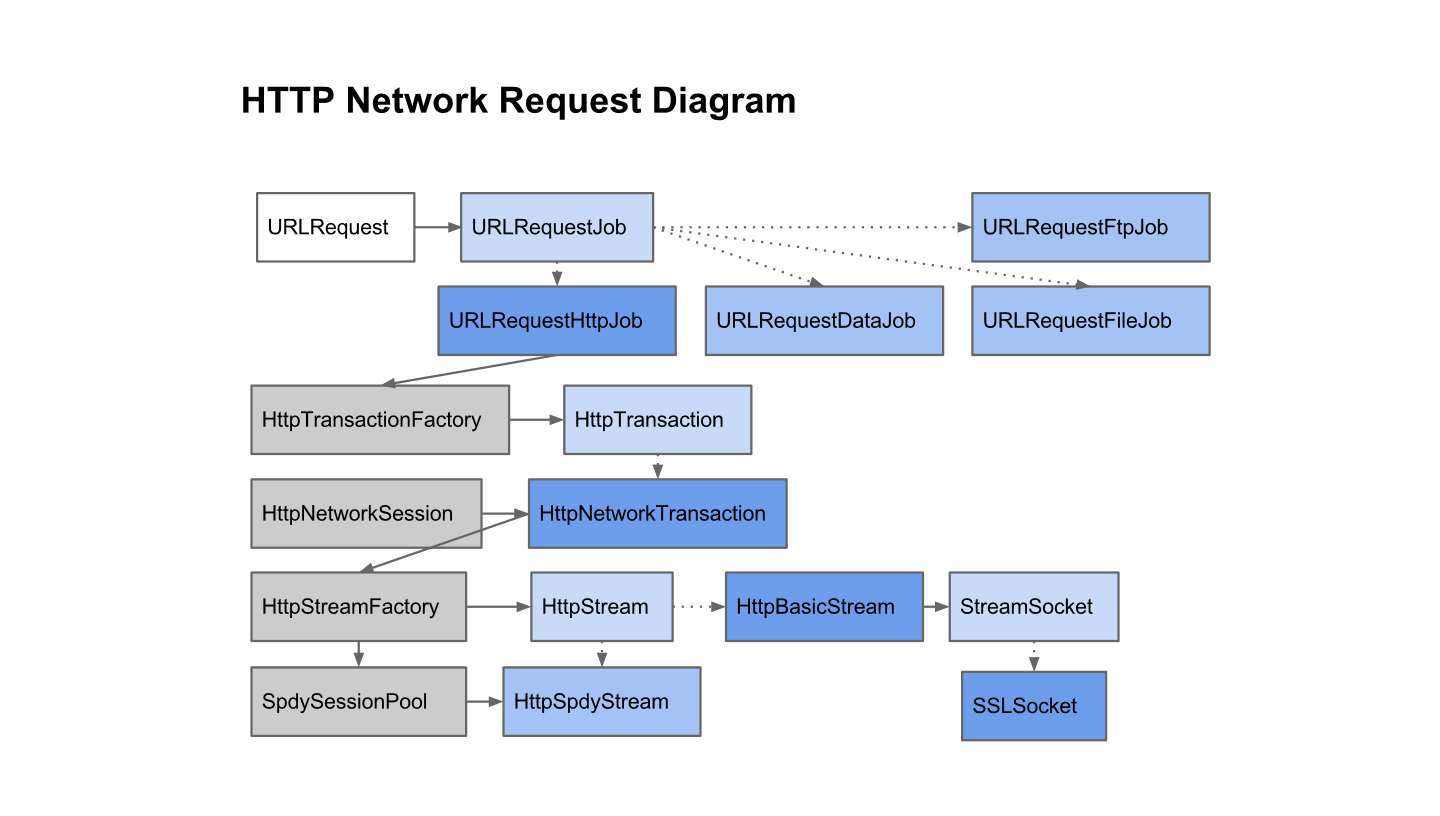
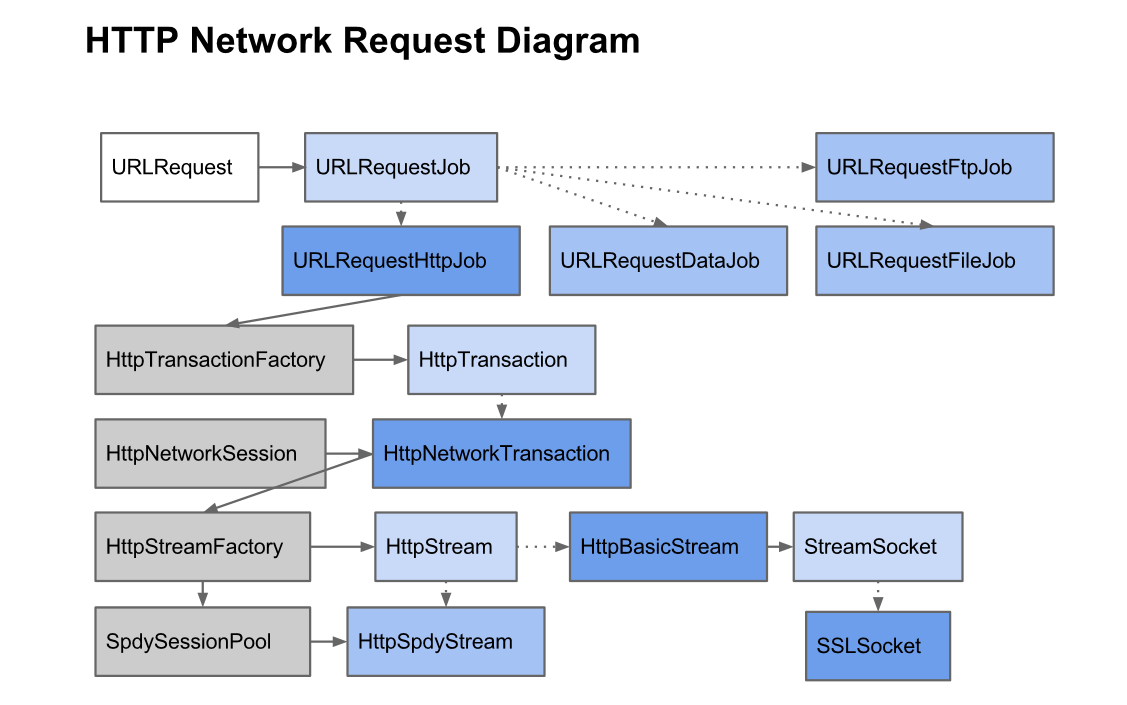
update

diff --git a/_posts/2014-9-12-network-stack-in-chrome.md b/_posts/2014-9-12-network-stack-in-chrome.md
@@ -4,7 +4,7 @@ title: Network Stack in chrome
 category: chrome
 description: The network stack is a mostly single-threaded cross-platform library primarily for resource fetching. Its main interfaces are URLRequest and URLRequestContext. 
 ---
-*The network stack is a mostly single-threaded cross-platform library primarily for resource fetching. Its main interfaces are `URLRequest` and `URLRequestContext`. *
+*The network stack is a mostly single-threaded cross-platform library primarily for resource fetching. Its main interfaces are `URLRequest` and `URLRequestContext`.*
 
 - URLRequest, as indicated by its name, represents the request for a URL.  
 - URLRequestContext contains all the associated context necessary to fulfill the URL request, such as cookies, host resolver, proxy resolver, cache, etc.  
@@ -30,7 +30,7 @@ description: The network stack is a mostly single-threaded cross-platform librar
 
 ## HTTP Network Diagram
 
-![](http://www.suninf.net/images/http_diagram.png)
+![](http://www.suninf.net/images/http_diagram.png){: style="width:100%;"}
 
 
 ## URLRequest
